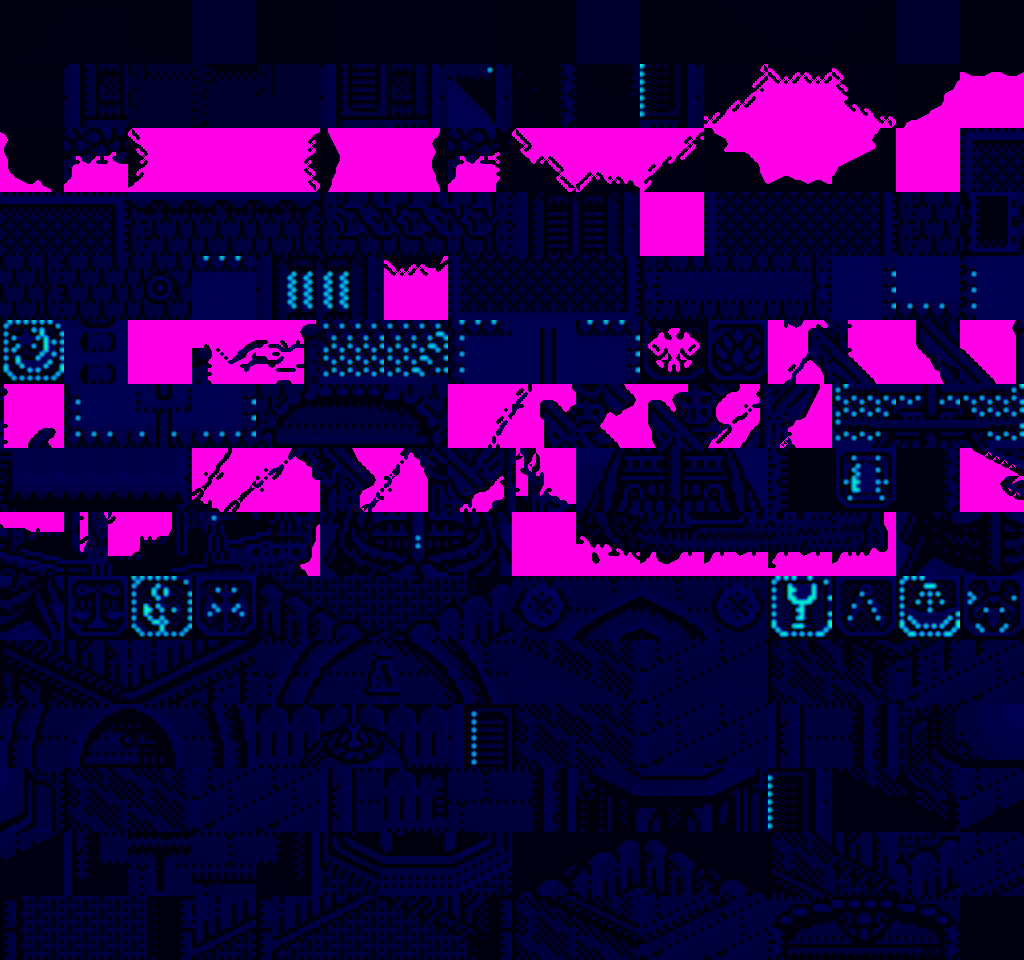
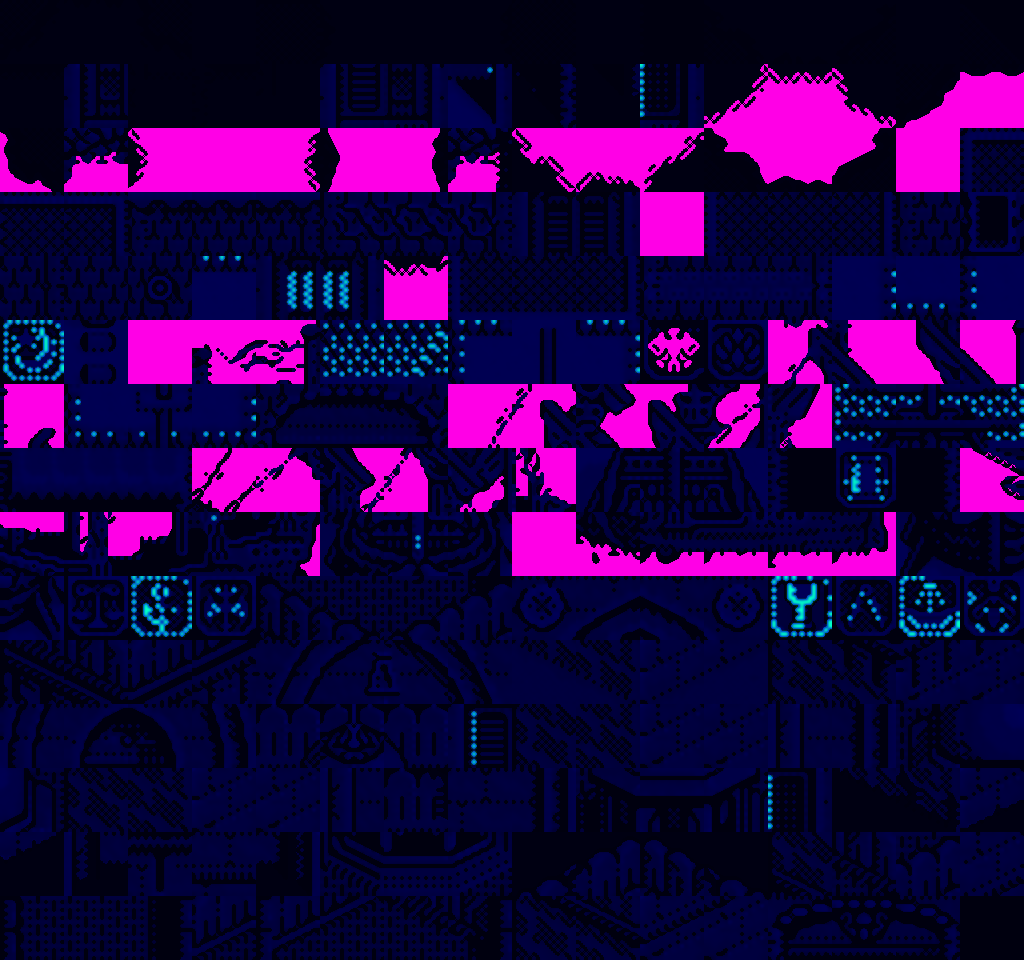
fix(art): keep sand shadow tiles free of stone plaza brick grid

Changed region(s): [[0.125, 0.0, 0.3125, 0.1562], [0.875, 0.0, 0.9375, 0.0938], [0.5625, 0.0, 0.625, 0.0938]]

diff --git a/tools/build_hd_textures.py b/tools/build_hd_textures.py
@@ -837,10 +837,14 @@ def process_portchip_sheet(set_idx: int, p1: int, p2: int, p3: int, mats, water_
             up64 = epx_2x_rgb(up32)
             sem64 = epx_2x_mask(sem32)
 
-            # 识别真石板广场 vs 自然沙滩/荒漠：仅在真铺砖地砖 (is_walk 且含 {8}) 或以砌石为底的图集 (Set 1/4/5 非海滩建筑外围) 才叠石板纹；纯沙/沙漠港 (Set 0/2/3/6) 的船只与屋周保持自然沙砾肌理
+            # 识别真石板广场 vs 自然沙滩/荒漠：仅以砌石为底的图集 (Set 1/4/5) 且排除海滩/岸边及沙地投影格 (s4:10/15, s5:11/12)，才叠石板纹；纯沙/沙漠港 (Set 0/2/3/6) 一律保持自然沙砾肌理
+            is_sand_only_shadow_in_stone_set = (set_idx == 4 and t_id in (10, 15)) or (set_idx == 5 and t_id in (11, 12))
             is_stone_plaza = (
-                (is_walk and (8 in uniq_idx) and not is_flat_beach and not is_shore_tile)
-                or ((not is_walk) and set_idx in (1, 4, 5) and not is_flat_beach and not is_shore_tile)
+                (set_idx in (1, 4, 5))
+                and not is_flat_beach
+                and not is_shore_tile
+                and not is_sand_only_shadow_in_stone_set
+                and ((not is_walk) or (8 in uniq_idx))
             )
 
             # 对地面/水域去高频网格，对建筑/屋檐/船只使用双边保边滤波将 1993 阶梯像素平滑为水彩绘本砖木质感
